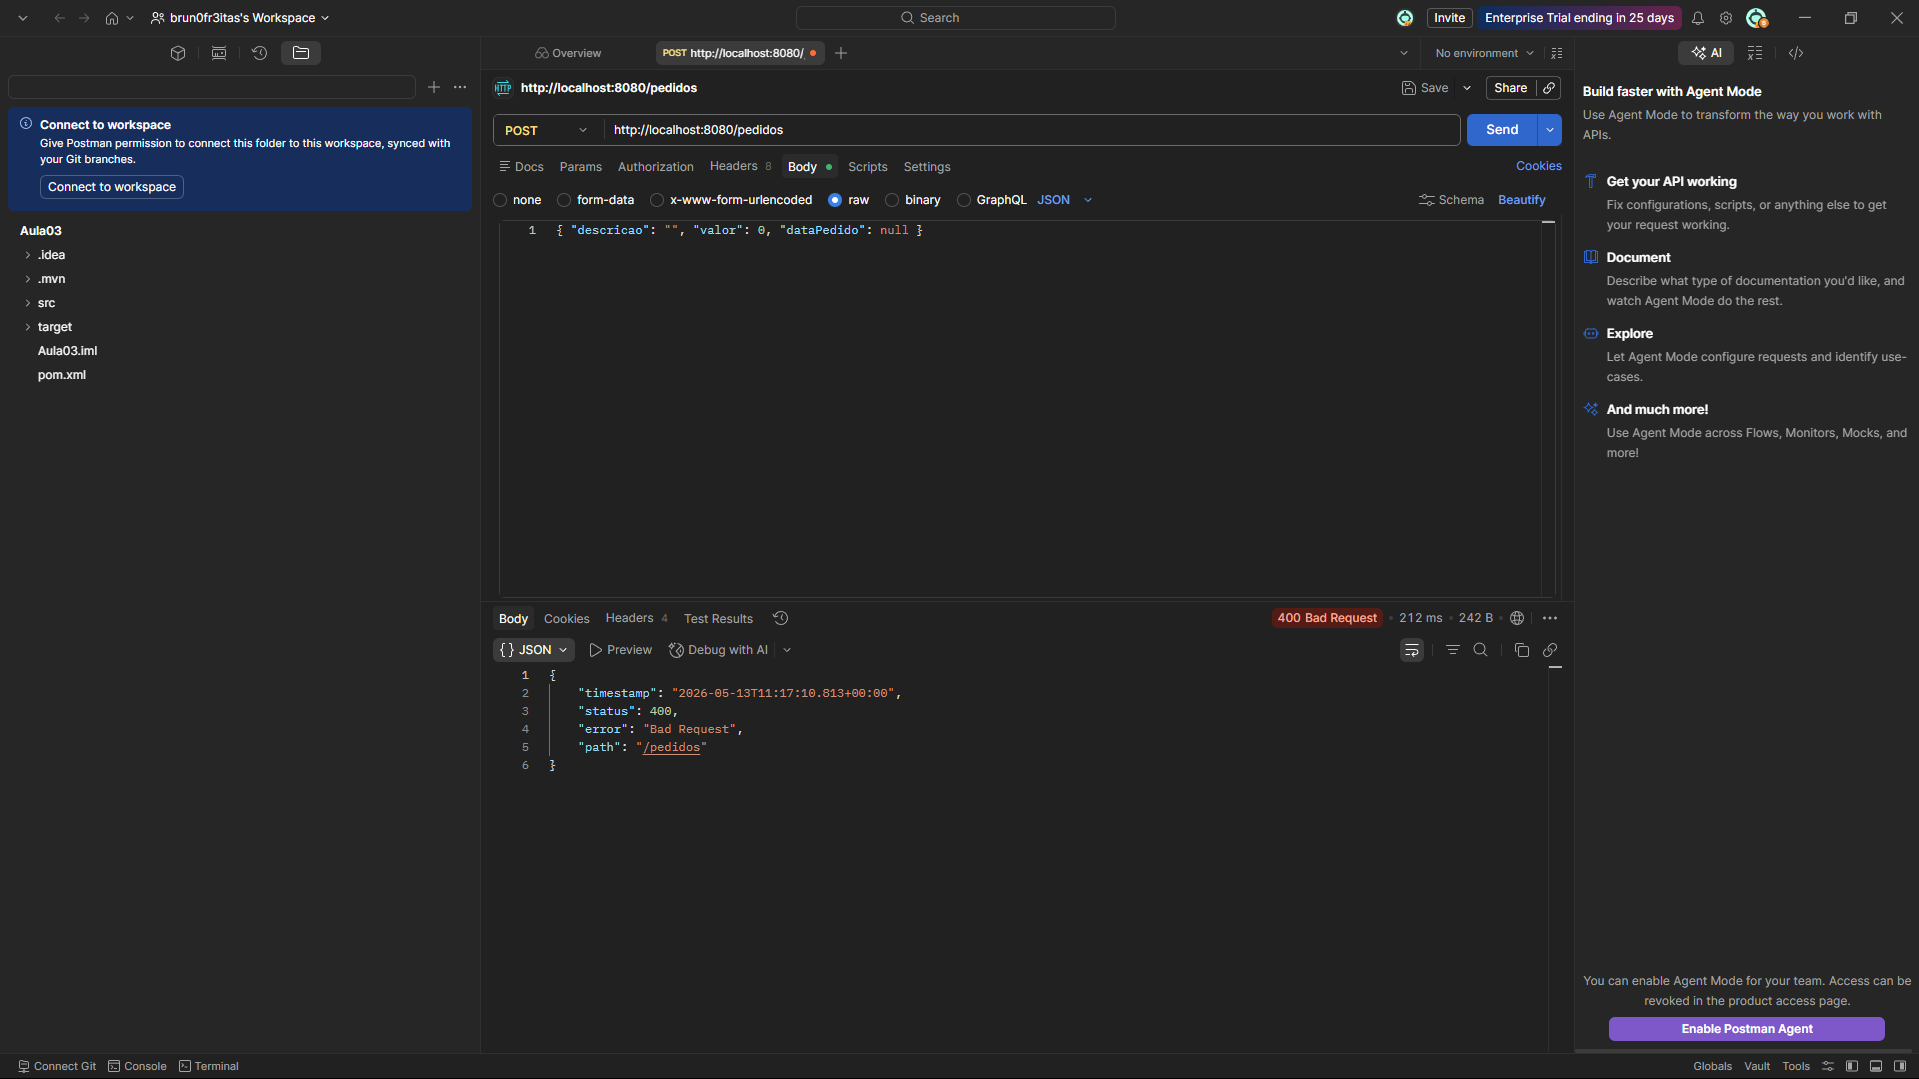
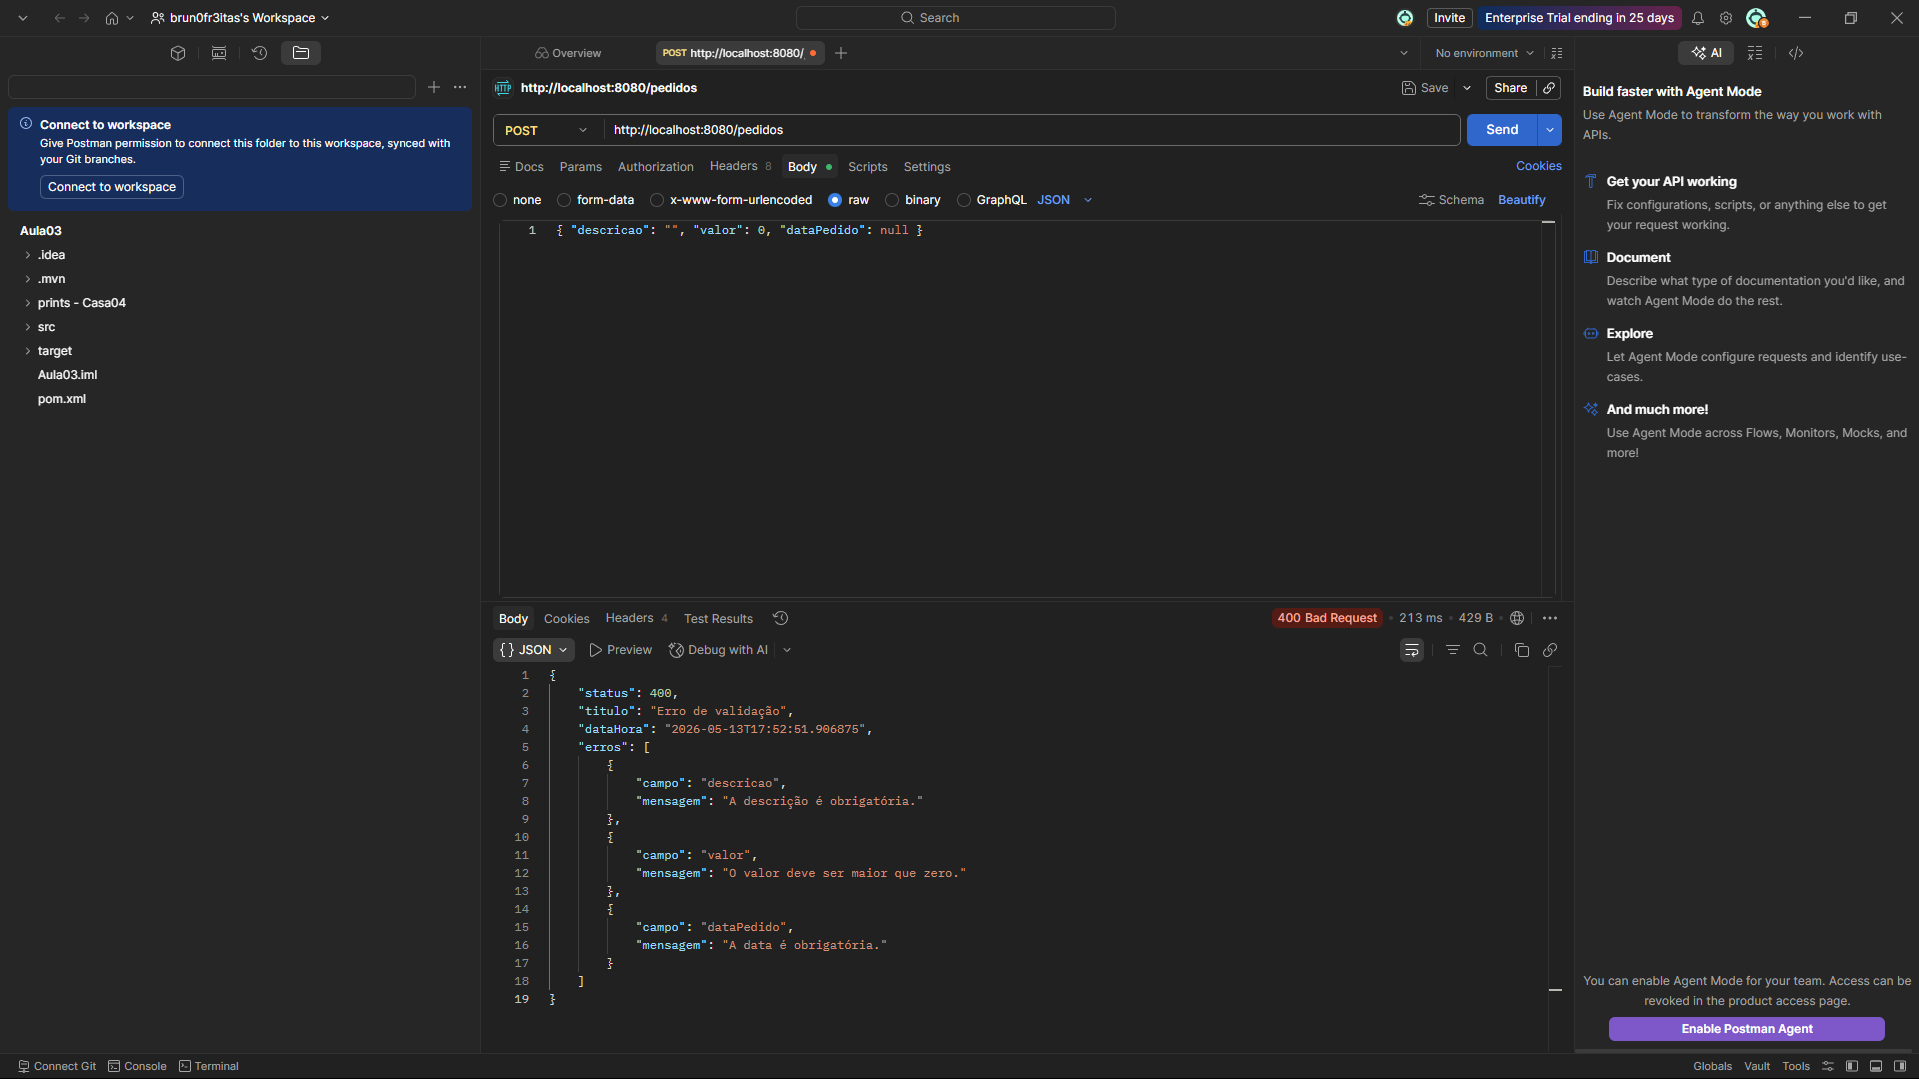
fix: Adição do @user no "ClienteController"
Adicionando @user na classe "ClienteController" que foi esquecido

diff --git a/Aula03/src/main/java/org/example/exception/ErroResposta.java b/Aula03/src/main/java/org/example/exception/ErroResposta.java
@@ -10,7 +10,7 @@ public class ErroResposta {
     private LocalDateTime dataHora;
     private List<CampoErro> erros;
 
-    public ErroResposta(int status, String titulo, List<CampoErro> erros) {
+    public ErroResposta(int status, String titulo, List<CampoErro> erros){
         this.status = status;
         this.titulo = titulo;
         this.dataHora = LocalDateTime.now();
@@ -22,11 +22,11 @@ public class ErroResposta {
     public LocalDateTime getDataHora() { return dataHora; }
     public List<CampoErro> getErros() { return erros; }
 
-    public static class CampoErro {
+    public static class CampoErro{
         private String campo;
         private String mensagem;
 
-        public CampoErro(String campo, String mensagem) {
+        public CampoErro(String campo, String mensagem){
             this.campo = campo;
             this.mensagem = mensagem;
         }

diff --git a/Aula03/src/main/java/org/example/exception/ControllerExceptionHandler.java b/Aula03/src/main/java/org/example/exception/ControllerExceptionHandler.java
@@ -12,7 +12,7 @@ public class ControllerExceptionHandler {
 
     @ExceptionHandler(MethodArgumentNotValidException.class)
     @ResponseStatus(HttpStatus.BAD_REQUEST)
-    public ErroResposta handleValidationErrors(MethodArgumentNotValidException ex) {
+    public ErroResposta handleValidationErrors(MethodArgumentNotValidException ex){
         List<ErroResposta.CampoErro> erros = ex.getBindingResult()
                 .getFieldErrors()
                 .stream()
@@ -24,7 +24,7 @@ public class ControllerExceptionHandler {
 
     @ExceptionHandler(RecursoNaoEncontradoException.class)
     @ResponseStatus(HttpStatus.NOT_FOUND)
-    public ErroResposta handleRecursoNaoEncontrado(RecursoNaoEncontradoException ex) {
+    public ErroResposta handleRecursoNaoEncontrado(RecursoNaoEncontradoException ex){
         return new ErroResposta(404, ex.getMessage(), List.of());
     }
 }

diff --git a/Aula03/src/main/java/org/example/controller/ClienteController.java b/Aula03/src/main/java/org/example/controller/ClienteController.java
@@ -1,5 +1,6 @@
 package org.example.controller;
 
+import jakarta.validation.Valid;
 import org.example.domain.Cliente;
 import org.example.repository.ClienteRepository;
 import org.springframework.http.HttpStatus;
@@ -41,7 +42,7 @@ public class ClienteController{
     }
 
     @PutMapping("/{id}")
-    public ResponseEntity<Cliente> atualizar(@PathVariable Long id, @RequestBody Cliente clienteAtualizado){
+    public ResponseEntity<Cliente> atualizar(@PathVariable Long id, @RequestBody @Valid Cliente clienteAtualizado){
         if (!repository.existsById(id)){
             return ResponseEntity.notFound().build();
         }